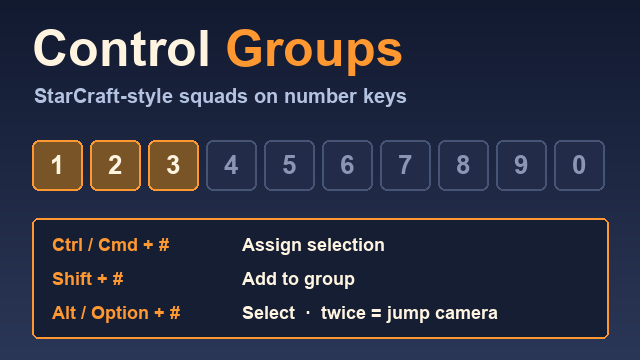
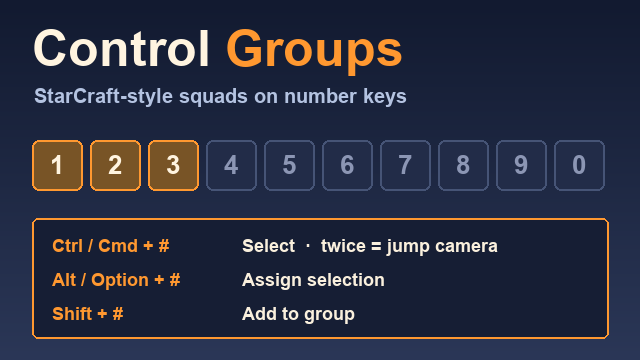
Control Groups: Ctrl/Cmd+number selects, Alt/Option+number assigns
- Swap keys so the frequent action (select) is on Ctrl, and overwriting a group needs Alt
- On Mac accept both Ctrl and Cmd for select, in case Ctrl+number is taken by desktop switching
- Ignore number keys pressed with more than one modifier
- Update About description and preview thumbnail key table

diff --git a/Source/ControlGroups.cs b/Source/ControlGroups.cs
@@ -74,22 +74,16 @@ namespace ControlGroups
             ControlGroupsComponent comp = ControlGroupsComponent.Instance;
             if (comp == null) return;
 
-            // 지정은 mac 에서 Cmd, 그 외 Ctrl. mac 의 Ctrl+숫자는 데스크탑 전환과 겹친다
-            bool assign = Application.platform == RuntimePlatform.OSXPlayer ? e.command : e.control;
-            // 스타처럼 지정은 Cmd(Ctrl)+숫자, 추가는 Shift+숫자
-            if (assign != e.shift)
-            {
-                Assign(comp, n, e.shift);
-                e.Use();
-                return;
-            }
-            if (e.shift || e.control || e.command) return;
-
-            // 선택은 Alt(mac Option)+숫자. 맨 숫자는 게임 속도 키로 남긴다
-            if (!e.alt) return;
-            // 빈 부대여도 소비해야 Alt+1 이 배속으로 새지 않는다
+            // 선택은 Ctrl. mac 은 Cmd 도 받는다 — Ctrl+숫자가 데스크탑 전환 단축키로 켜져 있으면 게임에 안 오기 때문
+            bool recall = e.control || (Application.platform == RuntimePlatform.OSXPlayer && e.command);
+            // 조합키는 하나만 눌렸을 때만 받는다. 맨 숫자는 게임 속도 키로 남긴다
+            int mods = (recall ? 1 : 0) + (e.alt ? 1 : 0) + (e.shift ? 1 : 0);
+            if (mods != 1) return;
+            // 빈 부대여도 소비해야 조합키+숫자가 배속으로 새지 않는다
             e.Use();
-            Recall(comp, n);
+            if (recall) Recall(comp, n);
+            // 지정은 Alt(mac Option)+숫자, 추가는 Shift+숫자
+            else Assign(comp, n, e.shift);
         }
 
         static int NumberOf(KeyCode k)
